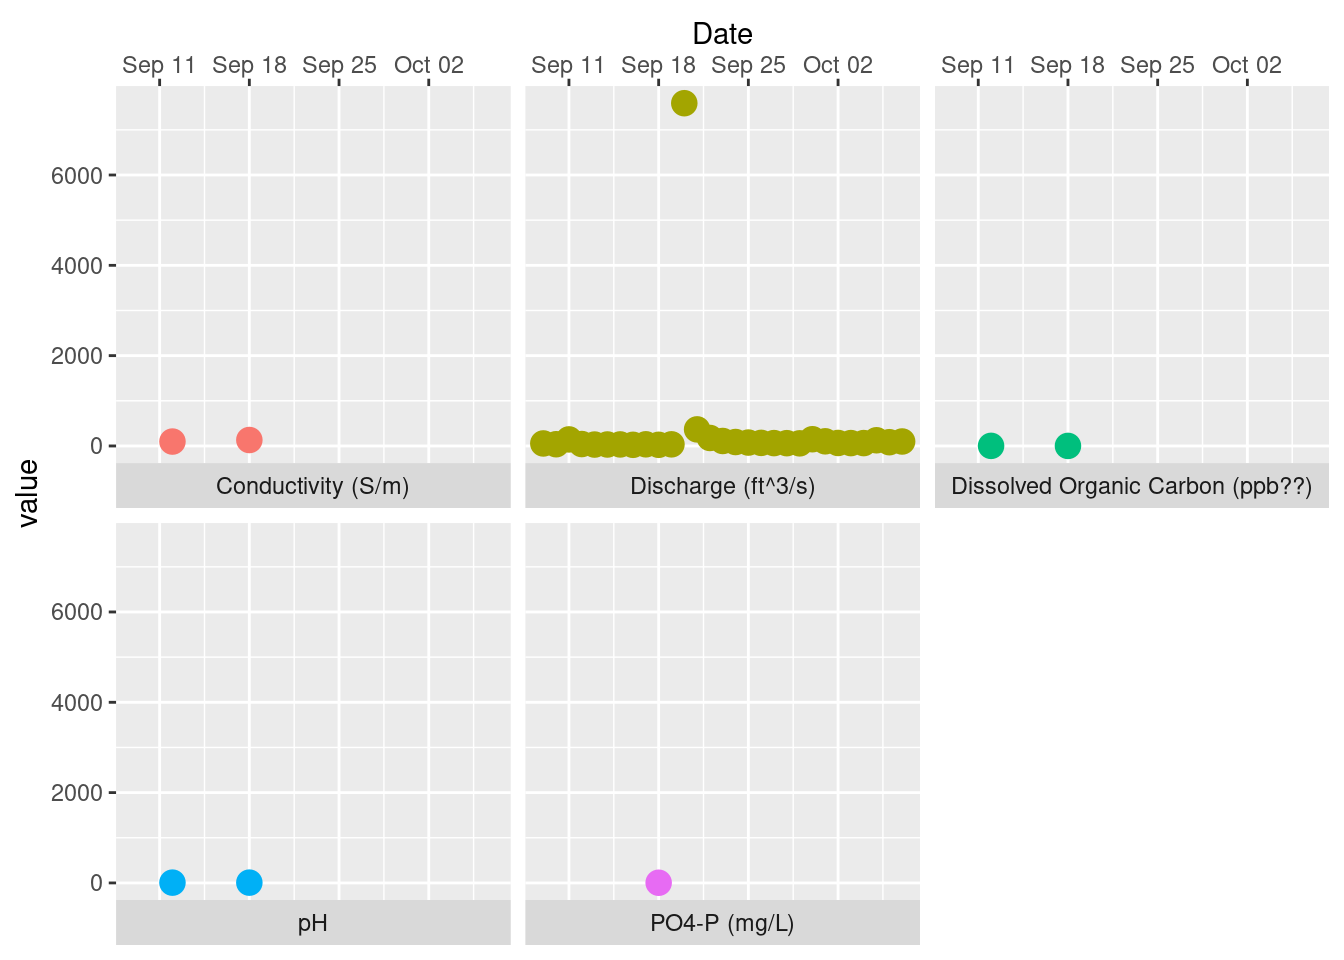
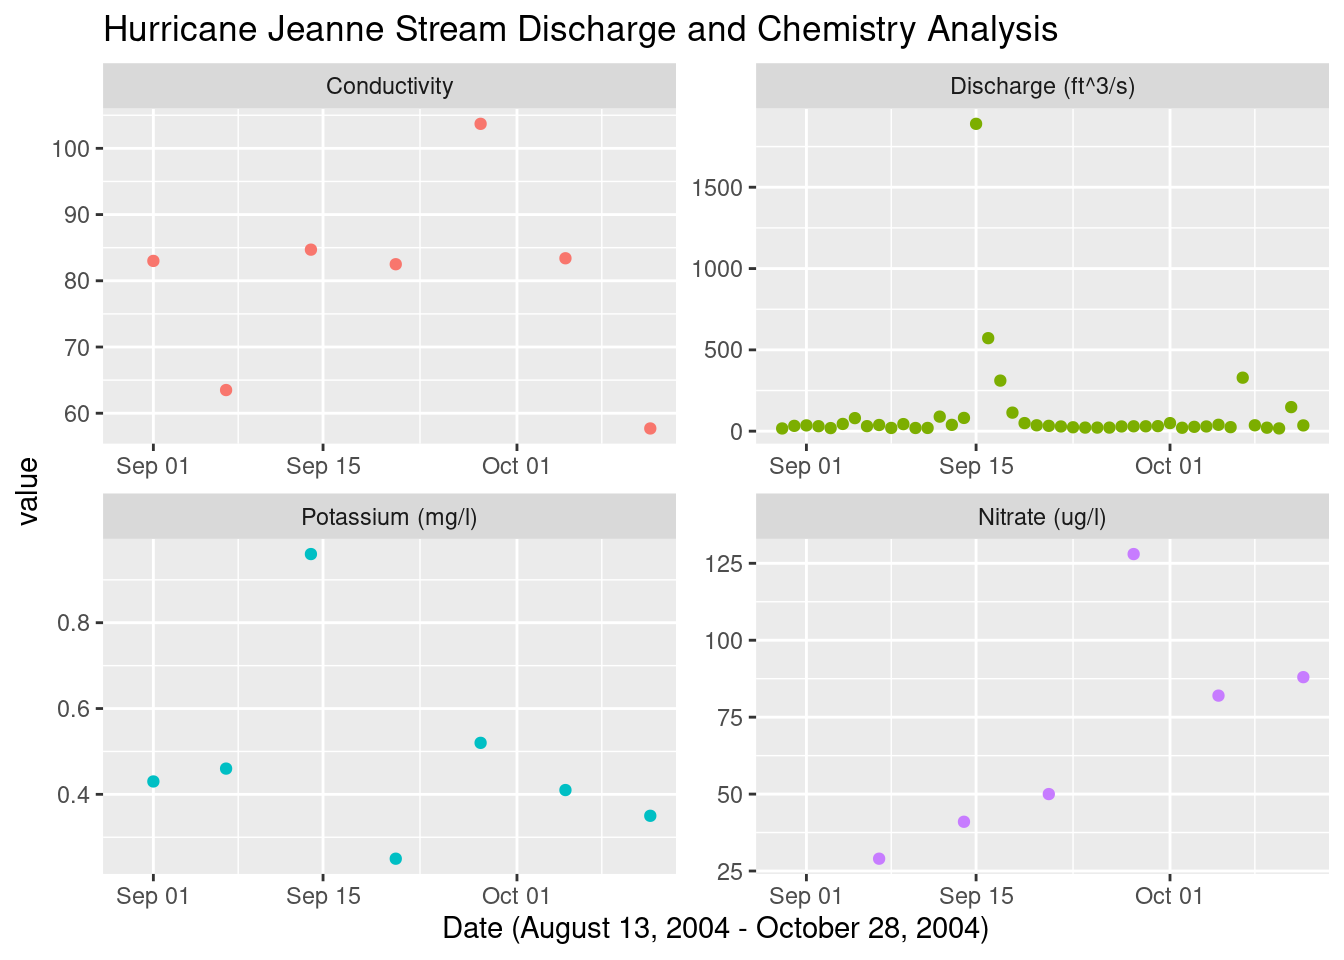
"fixed plots for hurricane jeanne data"

diff --git a/group-project-q2.html b/group-project-q2.html
@@ -130,8 +130,8 @@ code span.wa { color: #60a0b0; font-weight: bold; font-style: italic; } /* Warni
 
 </header>
 
-<section id="we-wanted-to-investigate-the-impacts-of-hurricane-maria-september-16-20-2017-on-several-variables-at-the-rio-espiritu-santo-site-in-puerto-rico." class="level1">
-<h1>We wanted to investigate the impacts of Hurricane Maria (September 16-20, 2017) on several variables at the Rio Espiritu Santo site in Puerto Rico.</h1>
+<section id="we-wanted-to-investigate-the-impacts-of-hurricane-jeanne-september-13-28-2004-on-stream-chemistry-data-collected-from-puerto-rico.-we-chose-to-look-at-water-chemistry-and-discharge-at-the-rio-espiritu-santo-site." class="level2">
+<h2 class="anchored" data-anchor-id="we-wanted-to-investigate-the-impacts-of-hurricane-jeanne-september-13-28-2004-on-stream-chemistry-data-collected-from-puerto-rico.-we-chose-to-look-at-water-chemistry-and-discharge-at-the-rio-espiritu-santo-site.">We wanted to investigate the impacts of Hurricane Jeanne (September 13-28, 2004) on stream chemistry data collected from Puerto Rico. We chose to look at water chemistry and discharge at the Rio Espiritu Santo site.</h2>
 <div class="cell">
 <div class="sourceCode cell-code" id="cb1"><pre class="sourceCode r code-with-copy"><code class="sourceCode r"><span id="cb1-1"><a href="#cb1-1" aria-hidden="true" tabindex="-1"></a><span class="fu">rm</span>(<span class="at">list =</span> <span class="fu">ls</span>())</span></code><button title="Copy to Clipboard" class="code-copy-button"><i class="bi"></i></button></pre></div>
 </div>
@@ -148,16 +148,18 @@ code span.wa { color: #60a0b0; font-weight: bold; font-style: italic; } /* Warni
 <span id="cb2-8"><a href="#cb2-8" aria-hidden="true" tabindex="-1"></a><span class="fu">library</span>(reshape2)</span></code><button title="Copy to Clipboard" class="code-copy-button"><i class="bi"></i></button></pre></div>
 </div>
 </section>
-<section id="read-in-the-stream-chemistry-data-for-the-rio-espiritu-site" class="level3">
-<h3 class="anchored" data-anchor-id="read-in-the-stream-chemistry-data-for-the-rio-espiritu-site">Read in the stream chemistry data for the Rio Espiritu site</h3>
+<section id="read-in-the-stream-chemistry-data-for-rio-espiritu" class="level3">
+<h3 class="anchored" data-anchor-id="read-in-the-stream-chemistry-data-for-rio-espiritu">Read in the stream chemistry data for Rio Espiritu</h3>
 <div class="cell">
 <div class="sourceCode cell-code" id="cb3"><pre class="sourceCode r code-with-copy"><code class="sourceCode r"><span id="cb3-1"><a href="#cb3-1" aria-hidden="true" tabindex="-1"></a><span class="co"># read in and clean data</span></span>
 <span id="cb3-2"><a href="#cb3-2" aria-hidden="true" tabindex="-1"></a><span class="co"># change all NAs to be stored in data frame the same way</span></span>
 <span id="cb3-3"><a href="#cb3-3" aria-hidden="true" tabindex="-1"></a><span class="co"># use clean names to normalize column naming conventions to lower_snake_case</span></span>
-<span id="cb3-4"><a href="#cb3-4" aria-hidden="true" tabindex="-1"></a></span>
-<span id="cb3-5"><a href="#cb3-5" aria-hidden="true" tabindex="-1"></a>RES <span class="ot">&lt;-</span> <span class="fu">read_csv</span>(<span class="fu">file.path</span>(<span class="st">"/courses/EDS214/group_project/2024/dream_stream_team/raw_data"</span>, <span class="st">"RioEspirituSanto.csv"</span>), <span class="at">na =</span> <span class="st">"-9999"</span>) <span class="sc">%&gt;%</span> </span>
-<span id="cb3-6"><a href="#cb3-6" aria-hidden="true" tabindex="-1"></a>  <span class="fu">clean_names</span>() <span class="sc">%&gt;%</span> </span>
-<span id="cb3-7"><a href="#cb3-7" aria-hidden="true" tabindex="-1"></a>  dplyr<span class="sc">::</span><span class="fu">rename</span>(<span class="at">date =</span> sample_date)</span></code><button title="Copy to Clipboard" class="code-copy-button"><i class="bi"></i></button></pre></div>
+<span id="cb3-4"><a href="#cb3-4" aria-hidden="true" tabindex="-1"></a><span class="co"># filter for date range - Hurricane Jeanne occurred on September 13-28, 2004 and we are querying for data +/- a month</span></span>
+<span id="cb3-5"><a href="#cb3-5" aria-hidden="true" tabindex="-1"></a></span>
+<span id="cb3-6"><a href="#cb3-6" aria-hidden="true" tabindex="-1"></a>RES <span class="ot">&lt;-</span> <span class="fu">read_csv</span>(<span class="fu">file.path</span>(<span class="st">"/courses/EDS214/group_project/2024/dream_stream_team/raw_data"</span>, <span class="st">"RioEspirituSanto.csv"</span>), <span class="at">na =</span> <span class="st">"-9999"</span>) <span class="sc">%&gt;%</span> </span>
+<span id="cb3-7"><a href="#cb3-7" aria-hidden="true" tabindex="-1"></a>  <span class="fu">clean_names</span>() <span class="sc">%&gt;%</span> </span>
+<span id="cb3-8"><a href="#cb3-8" aria-hidden="true" tabindex="-1"></a>  dplyr<span class="sc">::</span><span class="fu">rename</span>(<span class="at">date =</span> sample_date) <span class="sc">%&gt;%</span></span>
+<span id="cb3-9"><a href="#cb3-9" aria-hidden="true" tabindex="-1"></a>  dplyr<span class="sc">::</span><span class="fu">filter</span>(date <span class="sc">&gt;=</span> <span class="st">"2004-08-13"</span> <span class="sc">&amp;</span> date <span class="sc">&lt;=</span> <span class="st">"2004-10-28"</span>)</span></code><button title="Copy to Clipboard" class="code-copy-button"><i class="bi"></i></button></pre></div>
 </div>
 </section>
 <section id="load-usgs-api" class="level3">
@@ -165,65 +167,67 @@ code span.wa { color: #60a0b0; font-weight: bold; font-style: italic; } /* Warni
 <div class="cell">
 <div class="sourceCode cell-code" id="cb4"><pre class="sourceCode r code-with-copy"><code class="sourceCode r"><span id="cb4-1"><a href="#cb4-1" aria-hidden="true" tabindex="-1"></a><span class="fu">library</span>(dataRetrieval)</span></code><button title="Copy to Clipboard" class="code-copy-button"><i class="bi"></i></button></pre></div>
 </div>
+</section>
+<section id="set-paramaters-and-query-the-api" class="level3">
+<h3 class="anchored" data-anchor-id="set-paramaters-and-query-the-api">Set paramaters and query the API</h3>
 <div class="cell">
 <div class="sourceCode cell-code" id="cb5"><pre class="sourceCode r code-with-copy"><code class="sourceCode r"><span id="cb5-1"><a href="#cb5-1" aria-hidden="true" tabindex="-1"></a><span class="co"># Set parameters for this query</span></span>
 <span id="cb5-2"><a href="#cb5-2" aria-hidden="true" tabindex="-1"></a><span class="co"># Site 50063800 - Rio Espiritu Santo NR Rio Grande, PR</span></span>
 <span id="cb5-3"><a href="#cb5-3" aria-hidden="true" tabindex="-1"></a></span>
 <span id="cb5-4"><a href="#cb5-4" aria-hidden="true" tabindex="-1"></a>siteNumber <span class="ot">&lt;-</span> <span class="st">"50063800"</span></span>
 <span id="cb5-5"><a href="#cb5-5" aria-hidden="true" tabindex="-1"></a>parameterCd <span class="ot">&lt;-</span> <span class="st">"00060"</span> <span class="co"># Discharge</span></span>
-<span id="cb5-6"><a href="#cb5-6" aria-hidden="true" tabindex="-1"></a>startDate <span class="ot">&lt;-</span> <span class="st">"2017-09-09"</span> <span class="co"># Hurricane Maria occurred on September 16-30, 2017 and we are querying for data from a week before to a week after</span></span>
-<span id="cb5-7"><a href="#cb5-7" aria-hidden="true" tabindex="-1"></a>endDate <span class="ot">&lt;-</span> <span class="st">"2017-10-07"</span></span></code><button title="Copy to Clipboard" class="code-copy-button"><i class="bi"></i></button></pre></div>
+<span id="cb5-6"><a href="#cb5-6" aria-hidden="true" tabindex="-1"></a>startDate <span class="ot">&lt;-</span> <span class="st">"2004-08-13"</span> </span>
+<span id="cb5-7"><a href="#cb5-7" aria-hidden="true" tabindex="-1"></a>endDate <span class="ot">&lt;-</span> <span class="st">"2004-10-28"</span></span></code><button title="Copy to Clipboard" class="code-copy-button"><i class="bi"></i></button></pre></div>
 </div>
 <div class="cell">
 <div class="sourceCode cell-code" id="cb6"><pre class="sourceCode r code-with-copy"><code class="sourceCode r"><span id="cb6-1"><a href="#cb6-1" aria-hidden="true" tabindex="-1"></a><span class="co"># Query the API for site discharge</span></span>
 <span id="cb6-2"><a href="#cb6-2" aria-hidden="true" tabindex="-1"></a><span class="co"># clean variable names</span></span>
-<span id="cb6-3"><a href="#cb6-3" aria-hidden="true" tabindex="-1"></a>discharge_espiritu <span class="ot">&lt;-</span> <span class="fu">readNWISdv</span>(siteNumber, parameterCd, startDate, endDate) <span class="sc">|&gt;</span></span>
-<span id="cb6-4"><a href="#cb6-4" aria-hidden="true" tabindex="-1"></a>  dplyr<span class="sc">::</span><span class="fu">rename</span>(<span class="at">date =</span> Date) <span class="sc">|&gt;</span></span>
+<span id="cb6-3"><a href="#cb6-3" aria-hidden="true" tabindex="-1"></a>discharge_espiritu <span class="ot">&lt;-</span> <span class="fu">readNWISdv</span>(siteNumber, parameterCd, startDate, endDate) <span class="sc">%&gt;%</span> </span>
+<span id="cb6-4"><a href="#cb6-4" aria-hidden="true" tabindex="-1"></a>  dplyr<span class="sc">::</span><span class="fu">rename</span>(<span class="at">date =</span> Date) <span class="sc">%&gt;%</span> </span>
 <span id="cb6-5"><a href="#cb6-5" aria-hidden="true" tabindex="-1"></a>  dplyr<span class="sc">::</span><span class="fu">rename</span>(<span class="at">discharge_ft3_s =</span> X_00060_00003)</span></code><button title="Copy to Clipboard" class="code-copy-button"><i class="bi"></i></button></pre></div>
 </div>
+</section>
+<section id="ready-the-data-for-plotting" class="level3">
+<h3 class="anchored" data-anchor-id="ready-the-data-for-plotting">Ready the data for plotting</h3>
 <div class="cell">
-<div class="sourceCode cell-code" id="cb7"><pre class="sourceCode r code-with-copy"><code class="sourceCode r"><span id="cb7-1"><a href="#cb7-1" aria-hidden="true" tabindex="-1"></a><span class="co"># combine both data frames (discharge_espiritu, RES) using fulljoin </span></span>
+<div class="sourceCode cell-code" id="cb7"><pre class="sourceCode r code-with-copy"><code class="sourceCode r"><span id="cb7-1"><a href="#cb7-1" aria-hidden="true" tabindex="-1"></a><span class="co"># combine both data frames (discharge_espiritu, RES) using `full_join()`</span></span>
 <span id="cb7-2"><a href="#cb7-2" aria-hidden="true" tabindex="-1"></a>combined_data <span class="ot">&lt;-</span> <span class="fu">full_join</span>(discharge_espiritu, RES, <span class="at">by =</span> <span class="st">'date'</span>)</span></code><button title="Copy to Clipboard" class="code-copy-button"><i class="bi"></i></button></pre></div>
 </div>
 <div class="cell">
-<div class="sourceCode cell-code" id="cb8"><pre class="sourceCode r code-with-copy"><code class="sourceCode r"><span id="cb8-1"><a href="#cb8-1" aria-hidden="true" tabindex="-1"></a><span class="co"># filter date to appropriate date range (2017-09-09 to 2017-10-07)</span></span>
-<span id="cb8-2"><a href="#cb8-2" aria-hidden="true" tabindex="-1"></a><span class="co"># select only comlumns needed for graphs (pH, pO4_p, conductivity, doc)</span></span>
-<span id="cb8-3"><a href="#cb8-3" aria-hidden="true" tabindex="-1"></a><span class="co"># mutated some columns to numeric because they were character</span></span>
-<span id="cb8-4"><a href="#cb8-4" aria-hidden="true" tabindex="-1"></a></span>
-<span id="cb8-5"><a href="#cb8-5" aria-hidden="true" tabindex="-1"></a>quality_rainfall_data <span class="ot">&lt;-</span> combined_data <span class="sc">|&gt;</span></span>
-<span id="cb8-6"><a href="#cb8-6" aria-hidden="true" tabindex="-1"></a>  <span class="fu">select</span>(date, discharge_ft3_s, p_h, cond, po4_p, doc) <span class="sc">|&gt;</span></span>
-<span id="cb8-7"><a href="#cb8-7" aria-hidden="true" tabindex="-1"></a>  dplyr<span class="sc">::</span><span class="fu">filter</span>(date <span class="sc">&gt;=</span> <span class="st">"2017-09-09"</span> <span class="sc">&amp;</span> date <span class="sc">&lt;=</span> <span class="st">"2017-10-07"</span>) <span class="sc">|&gt;</span></span>
-<span id="cb8-8"><a href="#cb8-8" aria-hidden="true" tabindex="-1"></a>  <span class="fu">mutate</span>(<span class="at">p_h =</span> <span class="fu">as.numeric</span>(p_h), </span>
-<span id="cb8-9"><a href="#cb8-9" aria-hidden="true" tabindex="-1"></a>         <span class="at">cond =</span> <span class="fu">as.numeric</span>(cond), </span>
-<span id="cb8-10"><a href="#cb8-10" aria-hidden="true" tabindex="-1"></a>         <span class="at">po4_p =</span> <span class="fu">as.numeric</span>(po4_p),</span>
-<span id="cb8-11"><a href="#cb8-11" aria-hidden="true" tabindex="-1"></a>         <span class="at">doc =</span> <span class="fu">as.numeric</span>(doc))</span></code><button title="Copy to Clipboard" class="code-copy-button"><i class="bi"></i></button></pre></div>
+<div class="sourceCode cell-code" id="cb8"><pre class="sourceCode r code-with-copy"><code class="sourceCode r"><span id="cb8-1"><a href="#cb8-1" aria-hidden="true" tabindex="-1"></a><span class="co"># filter date to desired range</span></span>
+<span id="cb8-2"><a href="#cb8-2" aria-hidden="true" tabindex="-1"></a><span class="co"># select columns</span></span>
+<span id="cb8-3"><a href="#cb8-3" aria-hidden="true" tabindex="-1"></a></span>
+<span id="cb8-4"><a href="#cb8-4" aria-hidden="true" tabindex="-1"></a>chem_discharge_data <span class="ot">&lt;-</span> combined_data <span class="sc">%&gt;%</span> </span>
+<span id="cb8-5"><a href="#cb8-5" aria-hidden="true" tabindex="-1"></a>  <span class="fu">select</span>(date, discharge_ft3_s, cond, k, no3_n) <span class="sc">%&gt;%</span> </span>
+<span id="cb8-6"><a href="#cb8-6" aria-hidden="true" tabindex="-1"></a>  dplyr<span class="sc">::</span><span class="fu">filter</span>(date <span class="sc">&gt;=</span> <span class="st">"2004-08-30"</span> <span class="sc">&amp;</span> date <span class="sc">&lt;=</span> <span class="st">"2004-10-12"</span>) <span class="sc">%&gt;%</span> </span>
+<span id="cb8-7"><a href="#cb8-7" aria-hidden="true" tabindex="-1"></a>  <span class="fu">mutate</span>(<span class="at">cond =</span> <span class="fu">as.numeric</span>(cond),</span>
+<span id="cb8-8"><a href="#cb8-8" aria-hidden="true" tabindex="-1"></a>         <span class="at">k =</span> <span class="fu">as.numeric</span>(k),</span>
+<span id="cb8-9"><a href="#cb8-9" aria-hidden="true" tabindex="-1"></a>         <span class="at">no3_n =</span> <span class="fu">as.numeric</span>(no3_n))</span></code><button title="Copy to Clipboard" class="code-copy-button"><i class="bi"></i></button></pre></div>
 </div>
 <div class="cell">
-<div class="sourceCode cell-code" id="cb9"><pre class="sourceCode r code-with-copy"><code class="sourceCode r"><span id="cb9-1"><a href="#cb9-1" aria-hidden="true" tabindex="-1"></a><span class="co"># i was testing multiple ways to ready the data to be faceted</span></span>
-<span id="cb9-2"><a href="#cb9-2" aria-hidden="true" tabindex="-1"></a><span class="co"># i decided to use the pivot method since apparently melt is deprecated</span></span>
-<span id="cb9-3"><a href="#cb9-3" aria-hidden="true" tabindex="-1"></a></span>
-<span id="cb9-4"><a href="#cb9-4" aria-hidden="true" tabindex="-1"></a>qrd_pivot <span class="ot">&lt;-</span> quality_rainfall_data <span class="sc">%&gt;%</span> </span>
-<span id="cb9-5"><a href="#cb9-5" aria-hidden="true" tabindex="-1"></a>  <span class="fu">select</span>(date, discharge_ft3_s, p_h, cond, po4_p, doc) <span class="sc">%&gt;%</span></span>
-<span id="cb9-6"><a href="#cb9-6" aria-hidden="true" tabindex="-1"></a>  <span class="fu">pivot_longer</span>(discharge_ft3_s<span class="sc">:</span>doc, <span class="at">names_to =</span> <span class="st">"variable"</span>, <span class="at">values_to =</span> <span class="st">"value"</span>)</span></code><button title="Copy to Clipboard" class="code-copy-button"><i class="bi"></i></button></pre></div>
+<div class="sourceCode cell-code" id="cb9"><pre class="sourceCode r code-with-copy"><code class="sourceCode r"><span id="cb9-1"><a href="#cb9-1" aria-hidden="true" tabindex="-1"></a><span class="co"># tidy the combined chemistry to a long format</span></span>
+<span id="cb9-2"><a href="#cb9-2" aria-hidden="true" tabindex="-1"></a>chem_discharge_long <span class="ot">&lt;-</span> chem_discharge_data <span class="sc">%&gt;%</span></span>
+<span id="cb9-3"><a href="#cb9-3" aria-hidden="true" tabindex="-1"></a>  <span class="fu">select</span>(date, discharge_ft3_s, cond, k, no3_n) <span class="sc">%&gt;%</span></span>
+<span id="cb9-4"><a href="#cb9-4" aria-hidden="true" tabindex="-1"></a>  tidyr<span class="sc">::</span><span class="fu">pivot_longer</span>(discharge_ft3_s<span class="sc">:</span>no3_n, <span class="at">names_to =</span> <span class="st">"variable"</span>, <span class="at">values_to =</span> <span class="st">"value"</span>)</span></code><button title="Copy to Clipboard" class="code-copy-button"><i class="bi"></i></button></pre></div>
 </div>
+</section>
+<section id="plot-data" class="level3">
+<h3 class="anchored" data-anchor-id="plot-data">Plot data</h3>
 <div class="cell">
-<div class="sourceCode cell-code" id="cb10"><pre class="sourceCode r code-with-copy"><code class="sourceCode r"><span id="cb10-1"><a href="#cb10-1" aria-hidden="true" tabindex="-1"></a><span class="co"># this is the graph we'll use</span></span>
-<span id="cb10-2"><a href="#cb10-2" aria-hidden="true" tabindex="-1"></a><span class="co"># im kinda just guessing the units here, hopefully ill figure them out later</span></span>
-<span id="cb10-3"><a href="#cb10-3" aria-hidden="true" tabindex="-1"></a></span>
-<span id="cb10-4"><a href="#cb10-4" aria-hidden="true" tabindex="-1"></a><span class="co"># labeller argument is weird but i guess it kind of works like this</span></span>
-<span id="cb10-5"><a href="#cb10-5" aria-hidden="true" tabindex="-1"></a>el_label <span class="ot">&lt;-</span> <span class="fu">c</span>(<span class="st">`</span><span class="at">cond</span><span class="st">`</span> <span class="ot">=</span> <span class="st">"Conductivity (S/m)"</span>,</span>
-<span id="cb10-6"><a href="#cb10-6" aria-hidden="true" tabindex="-1"></a>              <span class="st">`</span><span class="at">discharge_ft3_s</span><span class="st">`</span> <span class="ot">=</span> <span class="st">"Discharge (ft^3/s)"</span>,</span>
-<span id="cb10-7"><a href="#cb10-7" aria-hidden="true" tabindex="-1"></a>              <span class="st">`</span><span class="at">doc</span><span class="st">`</span> <span class="ot">=</span> <span class="st">"Dissolved Organic Carbon (ppb??)"</span>,</span>
-<span id="cb10-8"><a href="#cb10-8" aria-hidden="true" tabindex="-1"></a>              <span class="st">`</span><span class="at">p_h</span><span class="st">`</span> <span class="ot">=</span> <span class="st">"pH"</span>,</span>
-<span id="cb10-9"><a href="#cb10-9" aria-hidden="true" tabindex="-1"></a>              <span class="st">`</span><span class="at">po4_p</span><span class="st">`</span> <span class="ot">=</span> <span class="st">"PO4-P (mg/L)"</span>)</span>
-<span id="cb10-10"><a href="#cb10-10" aria-hidden="true" tabindex="-1"></a></span>
-<span id="cb10-11"><a href="#cb10-11" aria-hidden="true" tabindex="-1"></a></span>
-<span id="cb10-12"><a href="#cb10-12" aria-hidden="true" tabindex="-1"></a><span class="fu">ggplot</span>(<span class="at">data =</span> <span class="fu">subset</span>(qrd_pivot, <span class="sc">!</span><span class="fu">is.na</span>(value)), </span>
-<span id="cb10-13"><a href="#cb10-13" aria-hidden="true" tabindex="-1"></a>       <span class="fu">aes</span>(<span class="at">y =</span> value, <span class="at">x =</span> date, <span class="at">color =</span> variable)) <span class="sc">+</span> </span>
-<span id="cb10-14"><a href="#cb10-14" aria-hidden="true" tabindex="-1"></a>  <span class="fu">geom_point</span>(<span class="at">size =</span> <span class="dv">4</span>, <span class="at">show.legend =</span> <span class="cn">FALSE</span>) <span class="sc">+</span> </span>
-<span id="cb10-15"><a href="#cb10-15" aria-hidden="true" tabindex="-1"></a>  <span class="fu">facet_wrap</span>(<span class="fu">vars</span>(variable), <span class="at">strip.position =</span> <span class="st">"bottom"</span>, <span class="at">labeller =</span> <span class="fu">as_labeller</span>(el_label)) <span class="sc">+</span> </span>
-<span id="cb10-16"><a href="#cb10-16" aria-hidden="true" tabindex="-1"></a>  <span class="fu">scale_x_date</span>(<span class="at">position =</span> <span class="st">"top"</span>) <span class="sc">+</span> </span>
-<span id="cb10-17"><a href="#cb10-17" aria-hidden="true" tabindex="-1"></a>  <span class="fu">xlab</span>(<span class="st">"Date"</span>)</span></code><button title="Copy to Clipboard" class="code-copy-button"><i class="bi"></i></button></pre></div>
+<div class="sourceCode cell-code" id="cb10"><pre class="sourceCode r code-with-copy"><code class="sourceCode r"><span id="cb10-1"><a href="#cb10-1" aria-hidden="true" tabindex="-1"></a>plot_label <span class="ot">&lt;-</span> <span class="fu">c</span>(<span class="st">`</span><span class="at">cond</span><span class="st">`</span> <span class="ot">=</span> <span class="st">"Conductivity"</span>,</span>
+<span id="cb10-2"><a href="#cb10-2" aria-hidden="true" tabindex="-1"></a>              <span class="st">`</span><span class="at">discharge_ft3_s</span><span class="st">`</span> <span class="ot">=</span> <span class="st">"Discharge (ft^3/s)"</span>,</span>
+<span id="cb10-3"><a href="#cb10-3" aria-hidden="true" tabindex="-1"></a>              <span class="st">`</span><span class="at">k</span><span class="st">`</span> <span class="ot">=</span> <span class="st">"Potassium (mg/l)"</span>,</span>
+<span id="cb10-4"><a href="#cb10-4" aria-hidden="true" tabindex="-1"></a>              <span class="st">`</span><span class="at">no3_n</span><span class="st">`</span> <span class="ot">=</span> <span class="st">"Nitrate (ug/l)"</span>)</span>
+<span id="cb10-5"><a href="#cb10-5" aria-hidden="true" tabindex="-1"></a></span>
+<span id="cb10-6"><a href="#cb10-6" aria-hidden="true" tabindex="-1"></a><span class="fu">ggplot</span>(chem_discharge_long, </span>
+<span id="cb10-7"><a href="#cb10-7" aria-hidden="true" tabindex="-1"></a>       <span class="fu">aes</span>(<span class="at">x =</span> date, <span class="at">y =</span> value, <span class="at">color =</span> variable)) <span class="sc">+</span> </span>
+<span id="cb10-8"><a href="#cb10-8" aria-hidden="true" tabindex="-1"></a>  <span class="fu">geom_point</span>(<span class="at">show.legend =</span> <span class="cn">FALSE</span>) <span class="sc">+</span> </span>
+<span id="cb10-9"><a href="#cb10-9" aria-hidden="true" tabindex="-1"></a>  <span class="fu">facet_wrap</span>(<span class="sc">~</span>variable, <span class="at">ncol =</span> <span class="dv">2</span>, </span>
+<span id="cb10-10"><a href="#cb10-10" aria-hidden="true" tabindex="-1"></a>             <span class="at">strip.position =</span> <span class="st">"top"</span>, </span>
+<span id="cb10-11"><a href="#cb10-11" aria-hidden="true" tabindex="-1"></a>             <span class="at">scales =</span> <span class="st">"free"</span>, </span>
+<span id="cb10-12"><a href="#cb10-12" aria-hidden="true" tabindex="-1"></a>             <span class="at">labeller =</span> <span class="fu">as_labeller</span>(plot_label)) <span class="sc">+</span> </span>
+<span id="cb10-13"><a href="#cb10-13" aria-hidden="true" tabindex="-1"></a>  <span class="fu">xlab</span>(<span class="st">"Date (August 13, 2004 - October 28, 2004)"</span>) <span class="sc">+</span> </span>
+<span id="cb10-14"><a href="#cb10-14" aria-hidden="true" tabindex="-1"></a>  <span class="fu">labs</span>(<span class="at">title =</span> <span class="st">"Hurricane Jeanne Stream Discharge and Chemistry Analysis"</span>)</span></code><button title="Copy to Clipboard" class="code-copy-button"><i class="bi"></i></button></pre></div>
 <div class="cell-output-display">
 <p><img src="group-project-q2_files/figure-html/unnamed-chunk-10-1.png" class="img-fluid" width="672"></p>
 </div>
